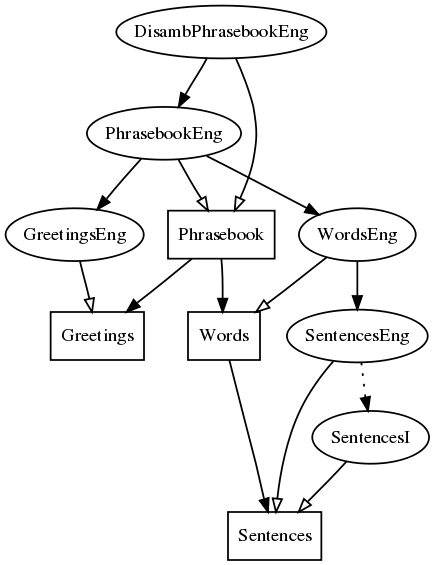
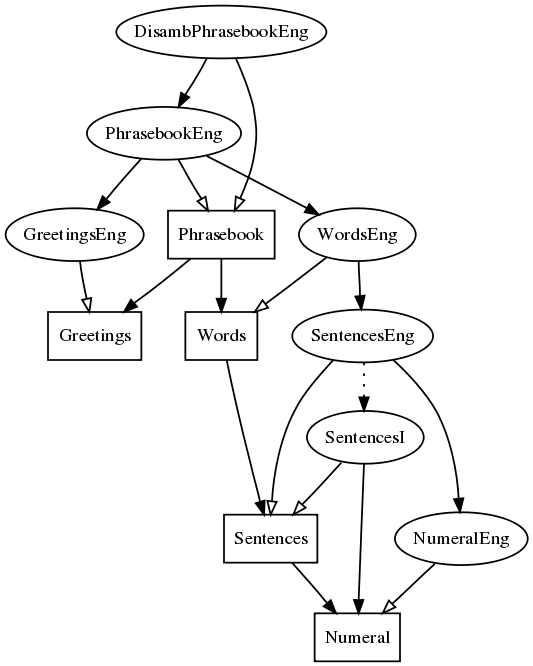
more edits in doc-phrasebook
darcs-hash:20100602083704-b9719-49ef55ea07cb701d7aaa87e10ed66afdf74a95e3.gz

Changed region(s): [[0.0, 0.0, 1.0, 1.0]]

diff --git a/examples/phrasebook/doc-phrasebook.html b/examples/phrasebook/doc-phrasebook.html
@@ -21,14 +21,18 @@ Showcase for project FP7-ICT-247914, Deliverable D10.2.
     <LI><A HREF="#toc3">From the user perspective</A>
     <LI><A HREF="#toc4">From the programmer's perspective</A>
     </UL>
-  <LI><A HREF="#toc5">Ontology</A>
-  <LI><A HREF="#toc6">Files</A>
-  <LI><A HREF="#toc7">Effort and cost</A>
-  <LI><A HREF="#toc8">Example-based grammar writing prototype</A>
-  <LI><A HREF="#toc9">To Do</A>
-  <LI><A HREF="#toc10">How to contribute</A>
-  <LI><A HREF="#toc11">Conclusions (tentative)</A>
-  <LI><A HREF="#toc12">Acknowledgements</A>
+  <LI><A HREF="#toc5">Files</A>
+    <UL>
+    <LI><A HREF="#toc6">Grammars</A>
+    <LI><A HREF="#toc7">Ontology</A>
+    <LI><A HREF="#toc8">Run-time system and user interface</A>
+    </UL>
+  <LI><A HREF="#toc9">Effort and cost</A>
+  <LI><A HREF="#toc10">Example-based grammar writing prototype</A>
+  <LI><A HREF="#toc11">To Do</A>
+  <LI><A HREF="#toc12">How to contribute</A>
+  <LI><A HREF="#toc13">Conclusions (tentative)</A>
+  <LI><A HREF="#toc14">Acknowledgements</A>
   </UL>
 
 <P></P>
@@ -210,19 +214,9 @@ Grammar testing
 </UL>
 
 <A NAME="toc5"></A>
-<H1>Ontology</H1>
-<P>
-The abstract syntax defines the <B>ontology</B> behind the phrasebook. 
-Some explanations can be found in the 
-<A HREF="Ontology.html">ontology document</A>, which is produced from the
-abstract syntax files
-<A HREF="http://code.haskell.org/gf/examples/phrasebook/Sentences.gf"><CODE>Sentences.gf</CODE></A>
-and
-<A HREF="http://code.haskell.org/gf/examples/phrasebook/Words.gf"><CODE>Words.gf</CODE></A>
-by <CODE>make doc</CODE>.
-</P>
-<A NAME="toc6"></A>
 <H1>Files</H1>
+<A NAME="toc6"></A>
+<H2>Grammars</H2>
 <P>
 <CODE>Sentences</CODE>: general syntactic structures implementable in a uniform way. 
 Concrete syntax via the functor <CODE>SencencesI</CODE>.
@@ -256,9 +250,32 @@ Here is the module structure as produced in GF by
 </PRE>
 <P></P>
 <P>
-<IMG ALIGN="middle" SRC="npgraph.png" BORDER="0" ALT="">
+<IMG ALIGN="middle" SRC="pgraph.png" BORDER="0" ALT="">
 </P>
 <A NAME="toc7"></A>
+<H2>Ontology</H2>
+<P>
+The abstract syntax defines the <B>ontology</B> behind the phrasebook. 
+Some explanations can be found in the 
+<A HREF="Ontology.html">ontology document</A>, which is produced from the
+abstract syntax files
+<A HREF="http://code.haskell.org/gf/examples/phrasebook/Sentences.gf"><CODE>Sentences.gf</CODE></A>
+and
+<A HREF="http://code.haskell.org/gf/examples/phrasebook/Words.gf"><CODE>Words.gf</CODE></A>
+by <CODE>make doc</CODE>.
+</P>
+<A NAME="toc8"></A>
+<H2>Run-time system and user interface</H2>
+<P>
+The phrasebook uses 
+the 
+<A HREF="http://code.google.com/p/grammatical-framework/wiki/LaunchWebDemos">PGF server</A>
+written in Haskell and the 
+<A HREF="http://www.cse.chalmers.se/~hallgren/minibar/about.html">minibar library</A>
+written in JavaScript. Since the sources of these systems are available, anyone can build the phrasebook
+locally on her own computer.
+</P>
+<A NAME="toc9"></A>
 <H1>Effort and cost</H1>
 <TABLE CELLPADDING="4" BORDER="1">
 <TR>
@@ -489,7 +506,7 @@ Explanation on scores
    </UL>
 </UL>
 
-<A NAME="toc8"></A>
+<A NAME="toc10"></A>
 <H1>Example-based grammar writing prototype</H1>
 <P>
 The figure presents the process of creating a Phrasebook using an example-based 
@@ -540,7 +557,7 @@ translator is needed is the evaluation and feedback step. An average of 4 hours 
 round and 2 rounds were needed in average for the languages for which we performed 
 the experiment. It is possible that more effort is needed for more complex languages.
 </P>
-<A NAME="toc9"></A>
+<A NAME="toc11"></A>
 <H1>To Do</H1>
 <P>
 Disambiguation grammars for other languages than English
@@ -558,7 +575,7 @@ Extend the abstract lexicon in <CODE>Words</CODE> by hand or (semi)automatically
 Customizable phone distribution: make your own selection of the 2^15 language subsets
 when downloading the phrasebook to a phone
 </P>
-<A NAME="toc10"></A>
+<A NAME="toc12"></A>
 <H1>How to contribute</H1>
 <P>
 The basic things "everyone" can do is 
@@ -615,7 +632,7 @@ Here are the steps to follow for contributors:
 <LI>Don't compromise quality to gain coverage: <I>non multa sed multum!</I> 
 </UL>
 
-<A NAME="toc11"></A>
+<A NAME="toc13"></A>
 <H1>Conclusions (tentative)</H1>
 <P>
 The grammarian need not be a native speaker of the language.
@@ -648,7 +665,7 @@ Resource grammars should give some more support
 <LI>large-scale morphological lexica
 </UL>
 
-<A NAME="toc12"></A>
+<A NAME="toc14"></A>
 <H1>Acknowledgements</H1>
 <P>
 The Phrasebook has been built in the MOLTO project funded by the European Commission.
